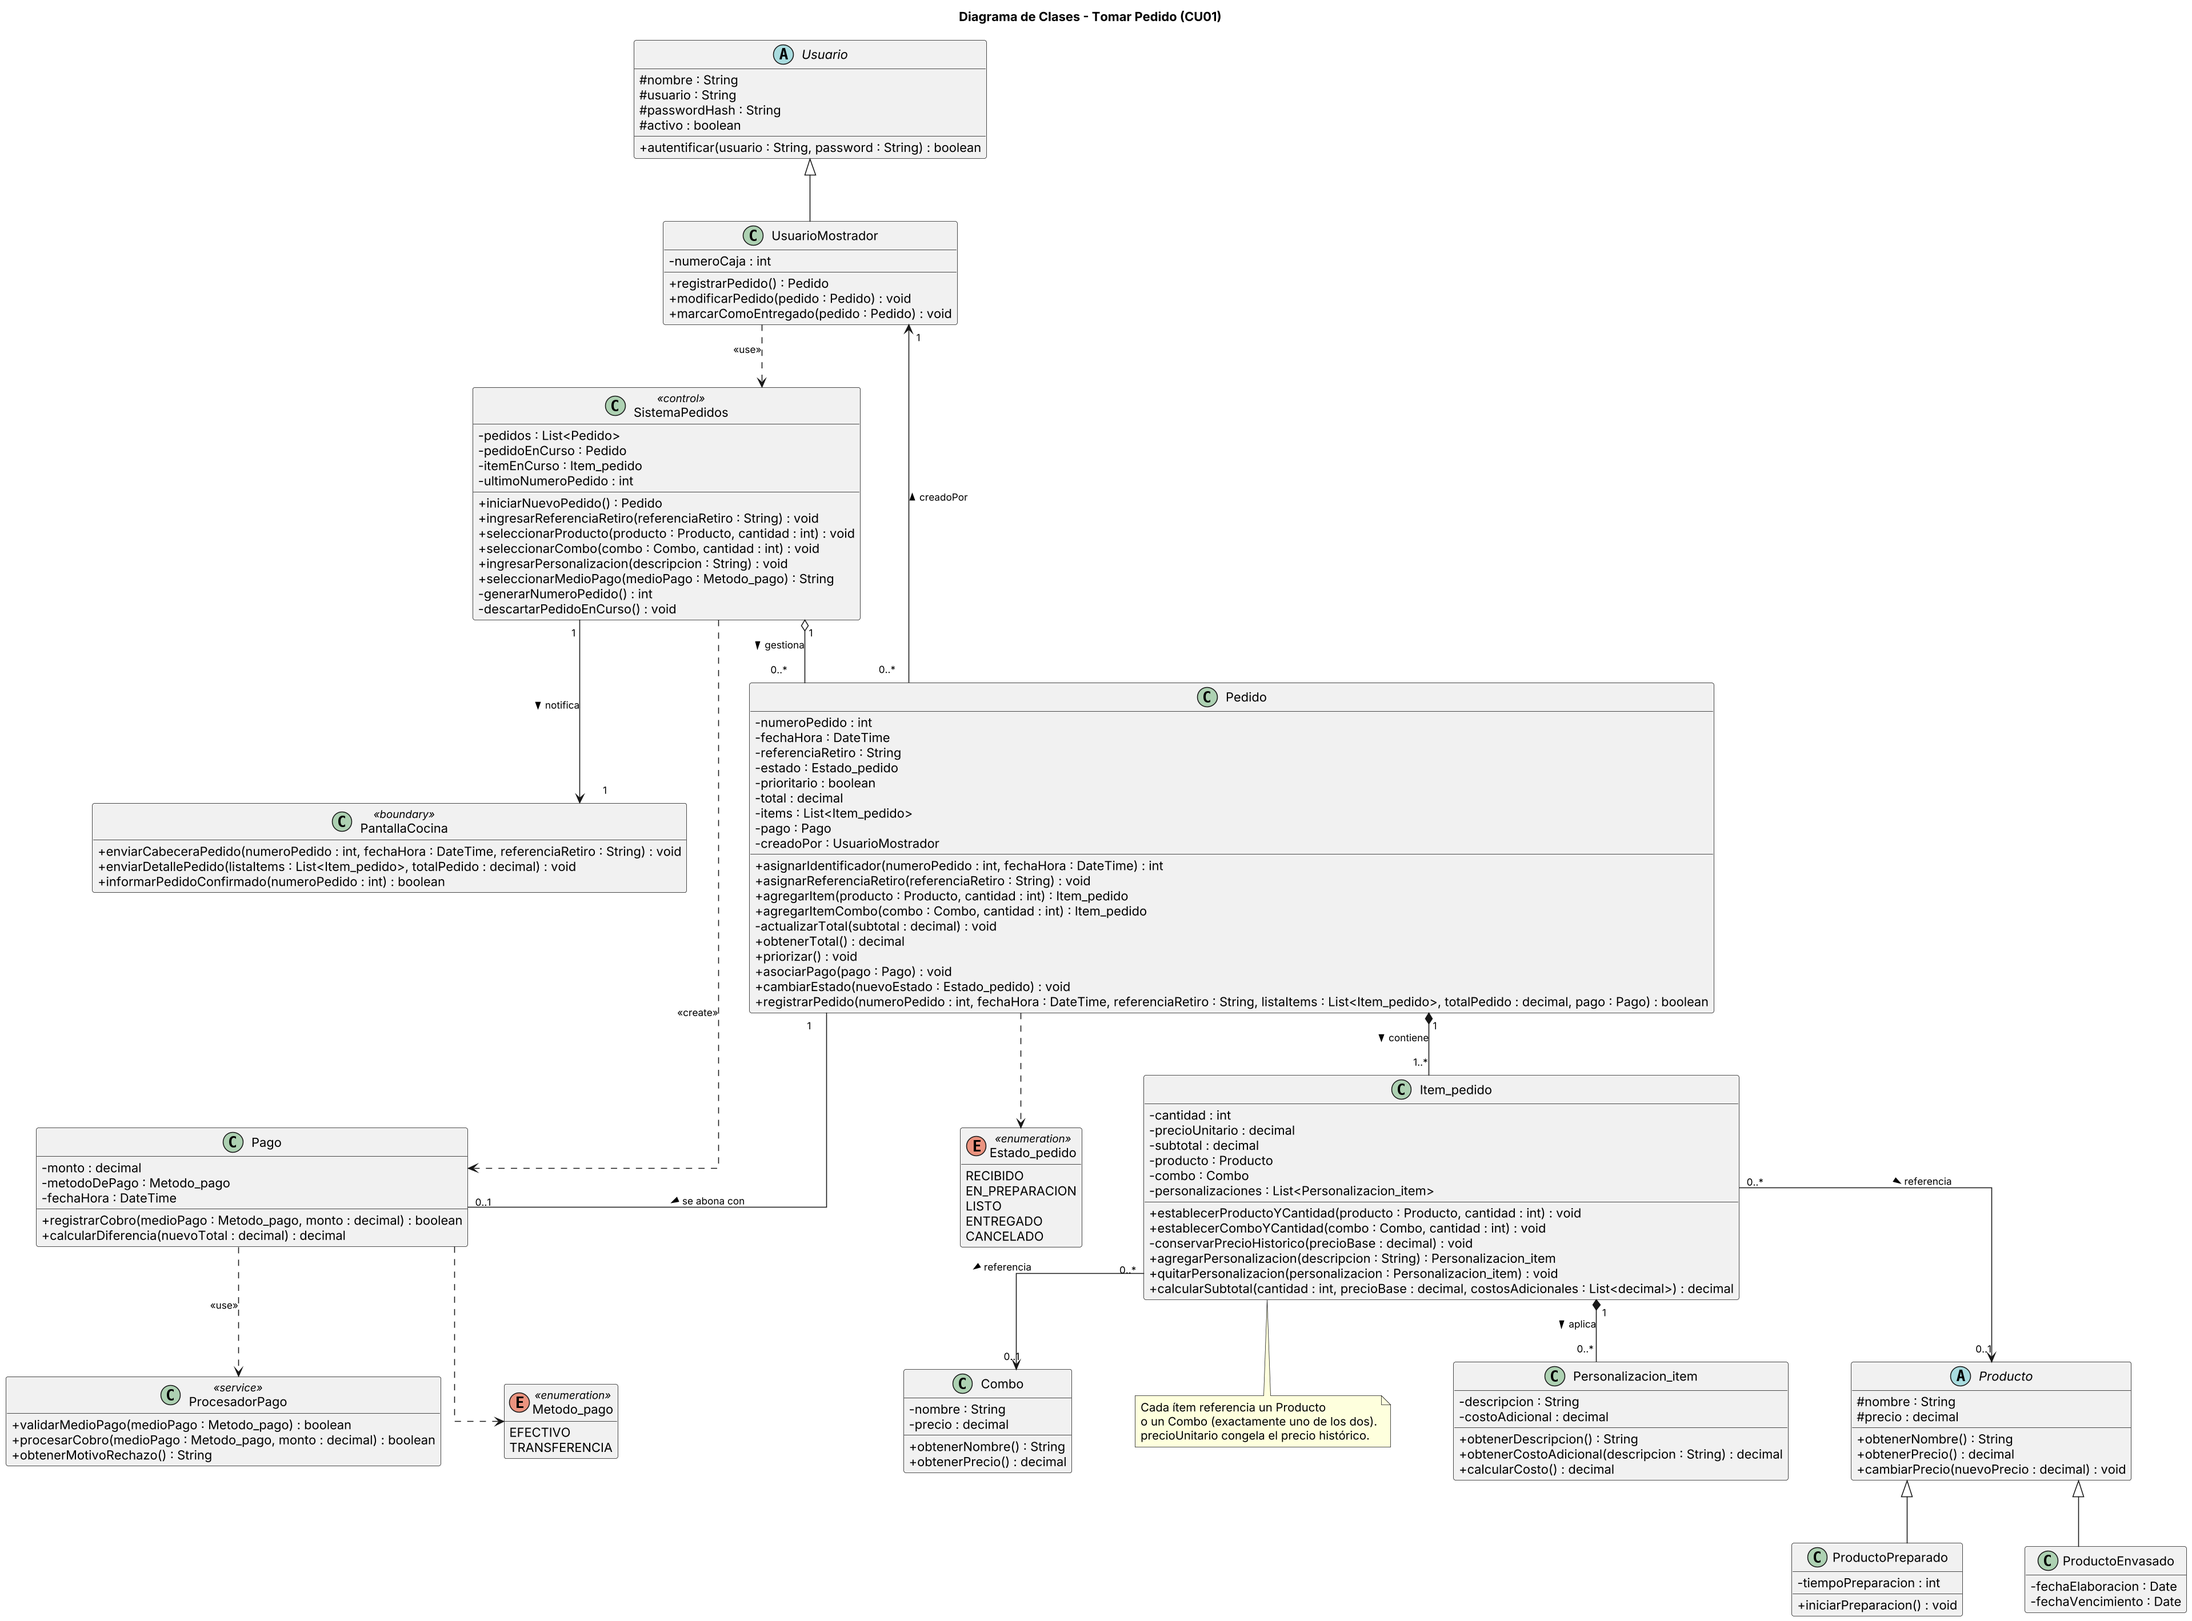
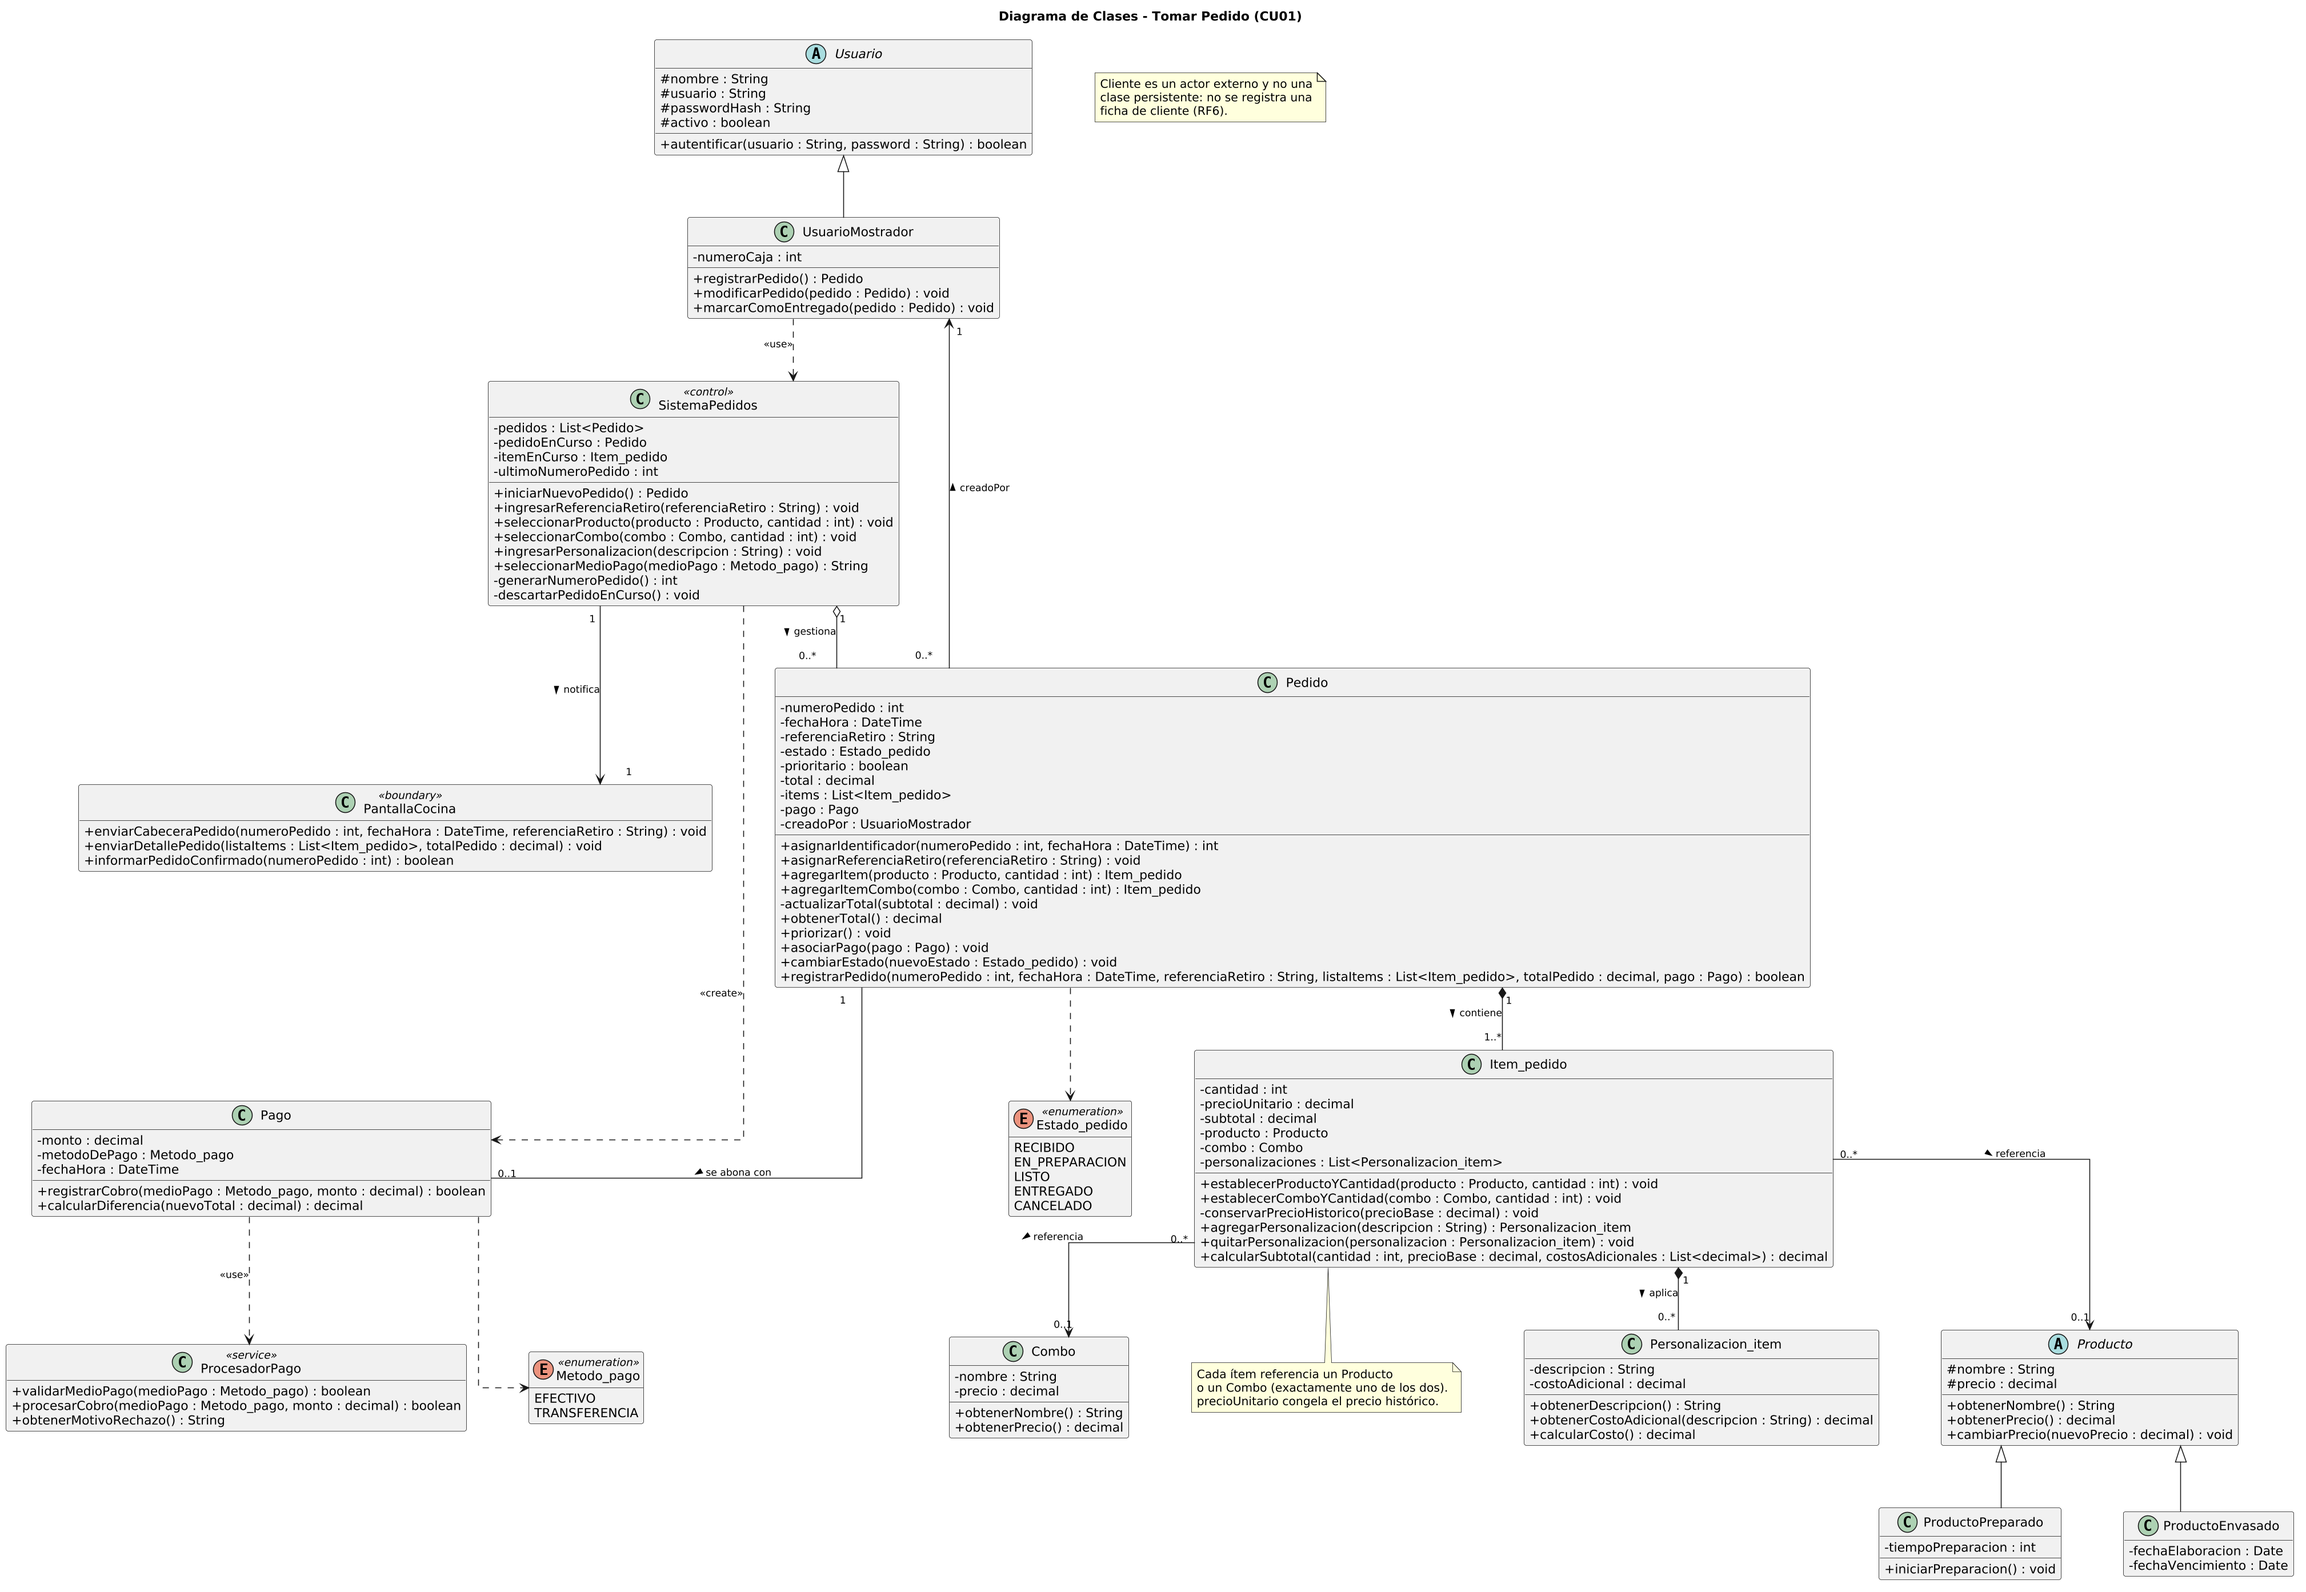
fix: aclaro que Cliente no se modela como clase en el CU1 segun el RF6

diff --git a/anexos/analisis-funcional/01-caso-de-uso-tomar-pedido.md b/anexos/analisis-funcional/01-caso-de-uso-tomar-pedido.md
@@ -44,7 +44,7 @@
 
 - **Usuario de Mostrador** → inicia y ejecuta "Tomar Pedido": identifica el pedido, carga los ítems y personalizaciones, registra el cobro y confirma.
 - **Cocina** → participa en "Visualizar/Recibir pedido", donde recibe el pedido confirmado.
-- **Cliente** → actor externo que solicita el pedido al Usuario de Mostrador; no interactúa directamente con el sistema.
+- **Cliente** → actor externo que solicita el pedido al Usuario de Mostrador; no interactúa directamente con el sistema. Existe una tarjeta CRC de Cliente en A2 ([06-tarjeta-crc-cliente.md](../../herramientas-agile/tarjetas-crc/06-tarjeta-crc-cliente.md)), pero no se modela como clase persistente porque el RF6 excluye la ficha de cliente.
 - **Include/Extend:** "Tomar Pedido" incluye (`<<include>>`) identificar el pedido, seleccionar productos o combos, agregar personalizaciones, recalcular el total, registrar el cobro y confirmar, porque sin esos pasos no existe un pedido válido. "Registrar cobro" incluye "Validar medio de pago". "Marcar pedido como prioritario" y "Resolver rechazo de transferencia" se modelaron como `<<extend>>` porque sólo ocurren bajo una condición (pedido urgente o transferencia rechazada).
 
 ## 3. Diagrama de Actividades
